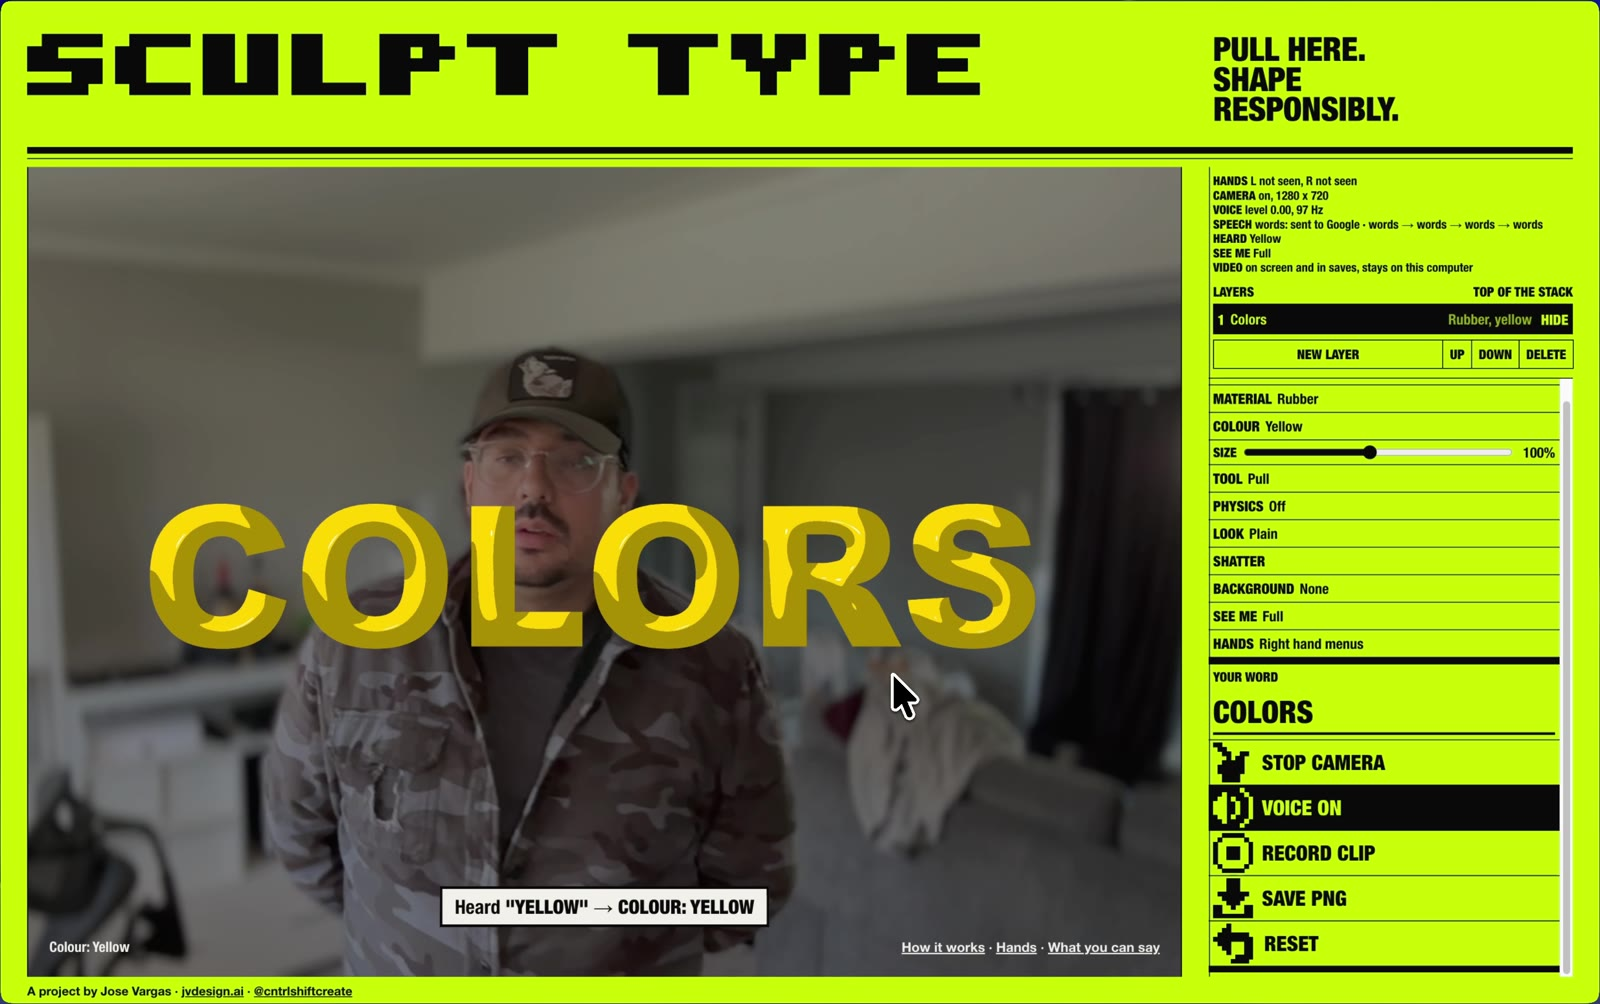
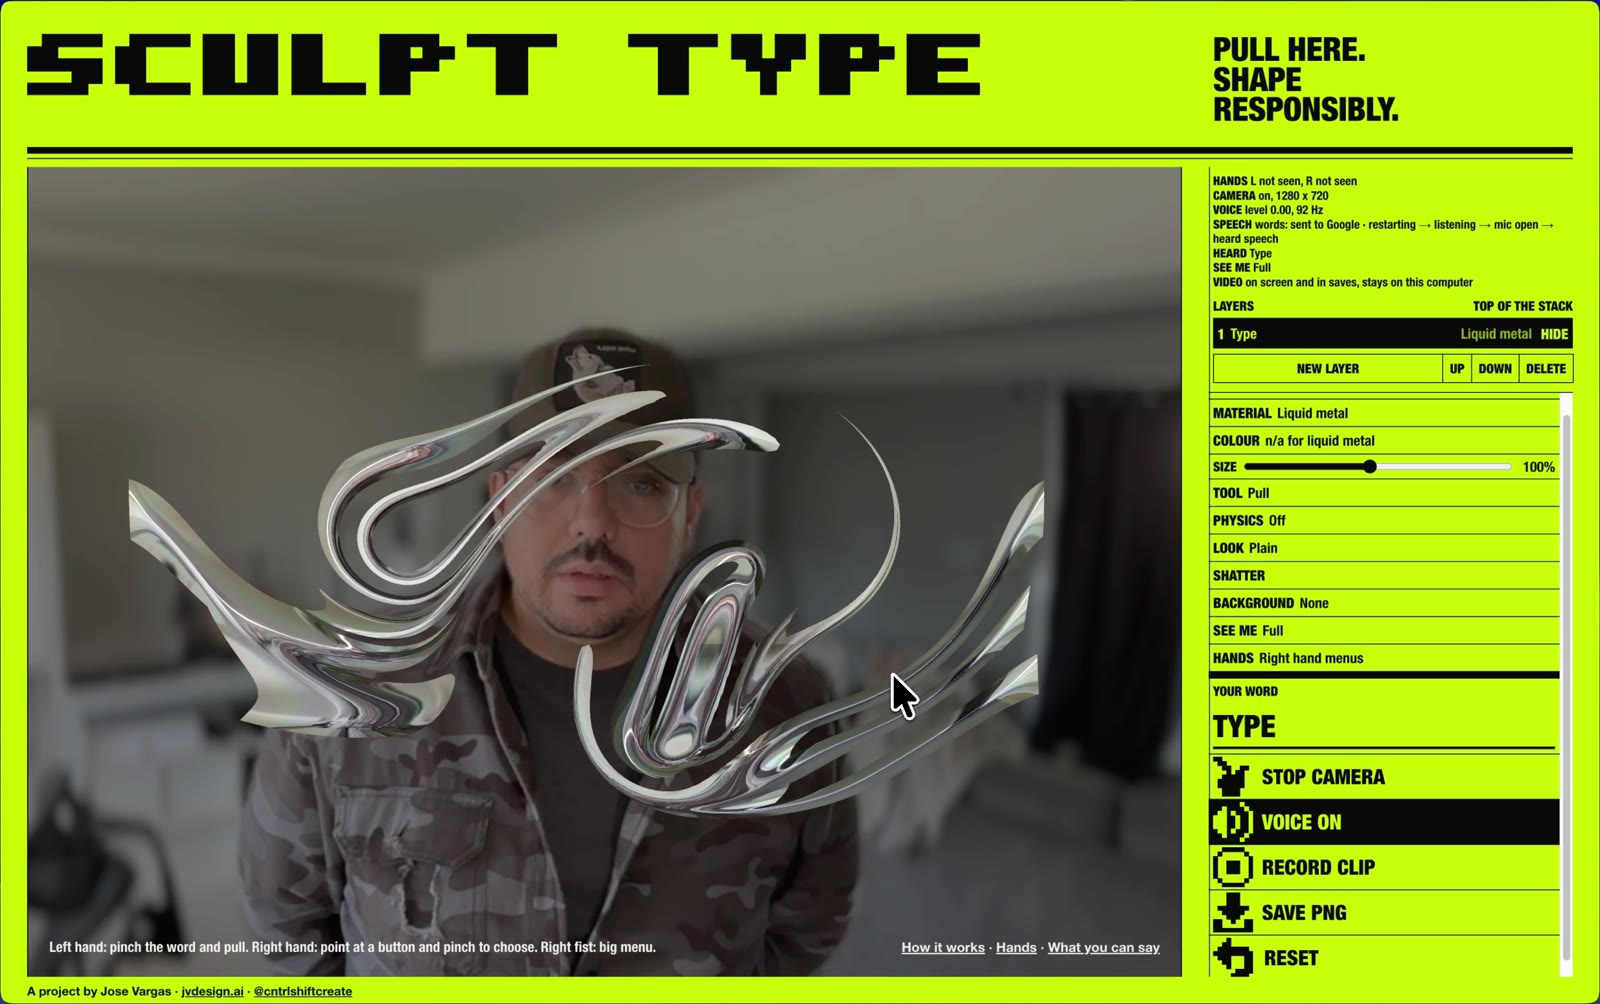
README: new preview image

Changed region(s): [[0.0312, 0.3088, 0.6562, 0.988], [0.75, 0.2161, 1.0, 0.988]]

diff --git a/README.md b/README.md
@@ -4,7 +4,7 @@ Shape type with your hands and your voice, right in the browser. Pinch a letter 
 
 **Try it:** **[jvargas718.github.io/sculpt-type](https://jvargas718.github.io/sculpt-type/)** (nothing to install)
 
-![Sculpt Type: the word COLORS in yellow rubber over the webcam view, with the control panel on the right](docs/preview.jpg)
+![Sculpt Type: liquid-metal letters pulled into swirls over the webcam view, with the control panel on the right](docs/preview.jpg)
 
 ## How to use it
 
